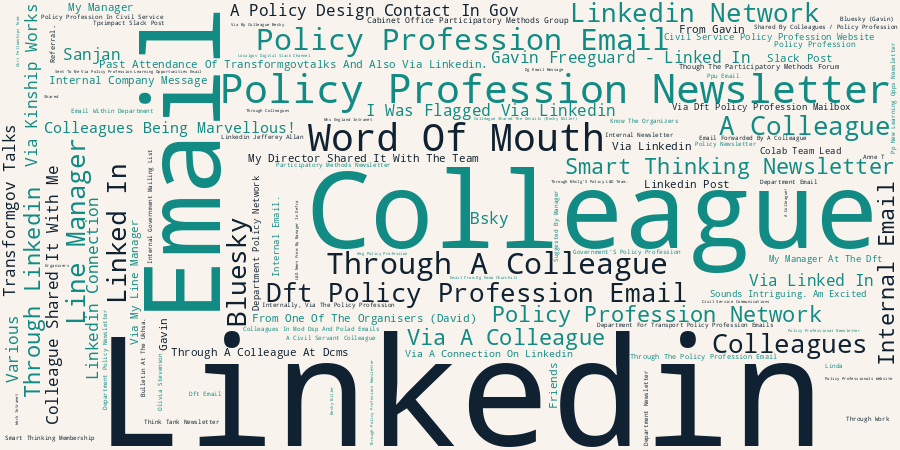
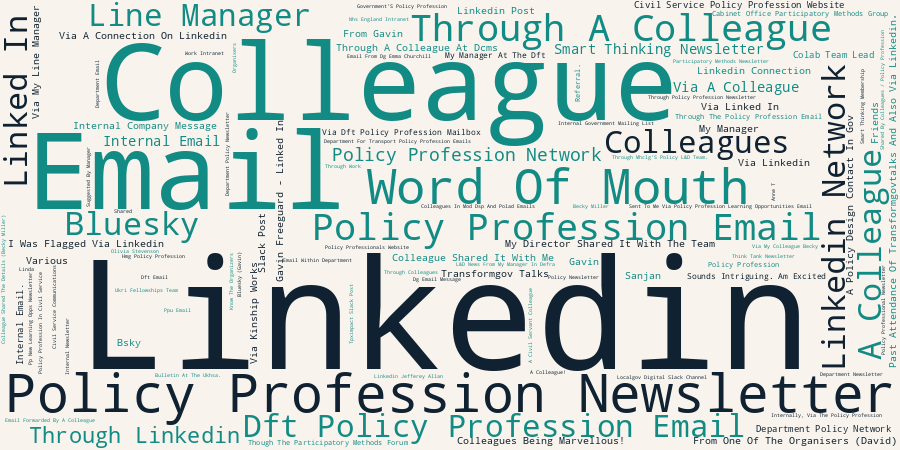
Dietary requirements as normalised count table, fix why-attend word cloud

diff --git a/applicant-data.html b/applicant-data.html
@@ -257,7 +257,6 @@
                 <h2>Please list any ways we can accommodate your accessibility or inclusion needs</h2>
                 <!-- BEGIN:I -->
                 <div class="scrollable-widget"><ul class="free-list">
-                    <li>n.a</li>
                     <li>I have Dyspraxia (primarily affects handwriting) and some hearing difficulties I am undergoing treatment for. It would be useful to be at the front of any room where speakers are present. I partly rely on lipreading when I cannot fully hear so a clear sight of speakers is helpful.</li>
                     <li>Mobility scooter, but can walk a bit and transfer into a normal seat</li>
                     <li>Some breaks (ADHD)</li>
@@ -280,80 +279,35 @@
             <div class="applicant-data-section">
                 <h2>Please list any dietary requirements</h2>
                 <!-- BEGIN:J -->
-                <div class="scrollable-widget"><ul class="free-list">
-                    <li>Pescetarian</li>
-                    <li>Halal</li>
-                    <li>Vegetarian</li>
-                    <li>n.a</li>
-                    <li>shellfish allergy</li>
-                    <li>Pescatarian</li>
-                    <li>Vegetarian</li>
-                    <li>Gluten Free</li>
-                    <li>Vegetarian</li>
-                    <li>Vegetarian</li>
-                    <li>Vegetarian</li>
-                    <li>No nuts</li>
-                    <li>Vegetarian</li>
-                    <li>Gluten free please</li>
-                    <li>Vegan</li>
-                    <li>vegetarian</li>
-                    <li>vegetarian</li>
-                    <li>Vegetarian</li>
-                    <li>Gluten free</li>
-                    <li>No pork</li>
-                    <li>Vegetarian</li>
-                    <li>No pork</li>
-                    <li>No carbohydrates or shellfish as I have an allergy</li>
-                    <li>Vegetarian</li>
-                    <li>Halal/Vegetarian</li>
-                    <li>vegan</li>
-                    <li>Vegetarian, allergic to sesame, walnuts and pecans</li>
-                    <li>Vegetarian</li>
-                    <li>Halal or vegetarian/vegan</li>
-                    <li>Vegetarian</li>
-                    <li>Dairy free</li>
-                    <li>No fats/oils e.g. mayo. No bread.</li>
-                    <li>Halal</li>
-                    <li>No egg</li>
-                    <li>Vegan</li>
-                    <li>I am pescatarian.</li>
-                    <li>Vegeterian</li>
-                    <li>pescatarian</li>
-                    <li>Vegetarian</li>
-                    <li>Halal or Veg</li>
-                    <li>Vegetarian</li>
-                    <li>Halal</li>
-                    <li>Vegetarian</li>
-                    <li>gluten free</li>
-                    <li>Gluten free</li>
-                    <li>No pork.</li>
-                    <li>Vegetarian (no fish)</li>
-                    <li>Veggie</li>
-                    <li>Vegetarian</li>
-                    <li>Vegetarian</li>
-                    <li>No dairy</li>
-                    <li>Vegetarian</li>
-                    <li>Halal</li>
-                    <li>Vegetarian</li>
-                    <li>Vegetarian</li>
-                    <li>Vegetarian</li>
-                    <li>pescatarian</li>
-                    <li>Halal</li>
-                    <li>vegetarian</li>
-                    <li>No saturated fats or oils</li>
-                    <li>Vegetarian</li>
-                    <li>Vegetarian</li>
-                    <li>Gluten and dairy free</li>
-                    <li>Pescetarian</li>
-                    <li>Vegetarian</li>
-                    <li>Vegan</li>
-                    <li>Vegetarian</li>
-                    <li>Coeliac disease</li>
-                    <li>Vegetarian</li>
-                    <li>Vegetarian</li>
-                    <li>Lactose intolerance</li>
-                    <li>Vegetarian</li>
-                </ul></div>
+                <table class="data-table">
+                    <tr><td>Vegetarian</td><td>30</td></tr>
+                    <tr><td>Pescatarian</td><td>5</td></tr>
+                    <tr><td>Halal</td><td>5</td></tr>
+                    <tr><td>Gluten free</td><td>4</td></tr>
+                    <tr><td>Vegan</td><td>4</td></tr>
+                    <tr><td>No Pork</td><td>2</td></tr>
+                    <tr><td>Shellfish Allergy</td><td>1</td></tr>
+                    <tr><td>No Nuts</td><td>1</td></tr>
+                    <tr><td>Gluten Free Please</td><td>1</td></tr>
+                    <tr><td>No Carbohydrates Or Shellfish As I Have An Allergy</td><td>1</td></tr>
+                    <tr><td>Halal/Vegetarian</td><td>1</td></tr>
+                    <tr><td>Vegetarian, Allergic To Sesame, Walnuts And Pecans</td><td>1</td></tr>
+                    <tr><td>Halal Or Vegetarian/Vegan</td><td>1</td></tr>
+                    <tr><td>Dairy free</td><td>1</td></tr>
+                    <tr><td>No Fats/Oils E.G. Mayo. No Bread.</td><td>1</td></tr>
+                    <tr><td>No Egg</td><td>1</td></tr>
+                    <tr><td>I Am Pescatarian.</td><td>1</td></tr>
+                    <tr><td>Vegeterian</td><td>1</td></tr>
+                    <tr><td>Halal Or Veg</td><td>1</td></tr>
+                    <tr><td>No Pork.</td><td>1</td></tr>
+                    <tr><td>Vegetarian (No Fish)</td><td>1</td></tr>
+                    <tr><td>Veggie</td><td>1</td></tr>
+                    <tr><td>No Dairy</td><td>1</td></tr>
+                    <tr><td>No Saturated Fats Or Oils</td><td>1</td></tr>
+                    <tr><td>Gluten And Dairy Free</td><td>1</td></tr>
+                    <tr><td>Coeliac Disease</td><td>1</td></tr>
+                    <tr><td>Lactose Intolerance</td><td>1</td></tr>
+                </table>
                 <!-- END:J -->
             </div>
 

diff --git a/scripts/update_applicant_data.py b/scripts/update_applicant_data.py
@@ -38,7 +38,19 @@ IMAGES_DIR = Path(__file__).parent.parent / "assets" / "images"
 
 MULTIPLE_CHOICE = {"D", "E", "F", "H", "K", "L", "M", "P"}
 COUNT_TABLE     = {"G"}
-FREE_LIST       = {"I", "J"}
+FREE_LIST       = {"I"}
+
+DIETARY_ALIASES = {
+    "pescetarian": "Pescatarian",
+    "pescatarian": "Pescatarian",
+    "vegetarian":  "Vegetarian",
+    "vegan":       "Vegan",
+    "halal":       "Halal",
+    "gluten free": "Gluten free",
+    "gluten-free": "Gluten free",
+    "dairy free":  "Dairy free",
+    "dairy-free":  "Dairy free",
+}
 
 NAVY = "#102231"
 TEAL = "#128b84"
@@ -63,11 +75,15 @@ def fetch_column(service, col):
 
 
 BLANK_RESPONSES = {
-    "", "n/a", "na", "none", "no", "nil", "-", "–", "—", "n.a.", "none.",
+    "", "n/a", "na", "n.a", "n.a.", "none", "no", "nil", "-", "–", "—", "none.",
     "no requirements", "no dietary requirements", "no accessibility needs",
     "no accessibility requirements", "none known", "none that i know of",
     "none at this time", "nothing", "not applicable",
 }
+
+
+def normalize_dietary(value):
+    return DIETARY_ALIASES.get(value.lower().strip(), value.strip().title())
 
 
 def filter_blanks(values):
@@ -182,6 +198,13 @@ def main():
             content = make_free_list(values)
             html = inject(html, col, content)
             log.info(f"Column {col}: {len(values)} responses after filtering")
+
+        # J: dietary — normalize variants and show as count table
+        values = filter_blanks(fetch_column(service, "J"))
+        normalised = [normalize_dietary(v) for v in values]
+        content = make_count_table(Counter(normalised))
+        html = inject(html, "J", content)
+        log.info(f"Column J: {len(normalised)} dietary responses")
 
         # O: short repeated entries — use whole-entry frequency cloud
         values = fetch_column(service, "O")